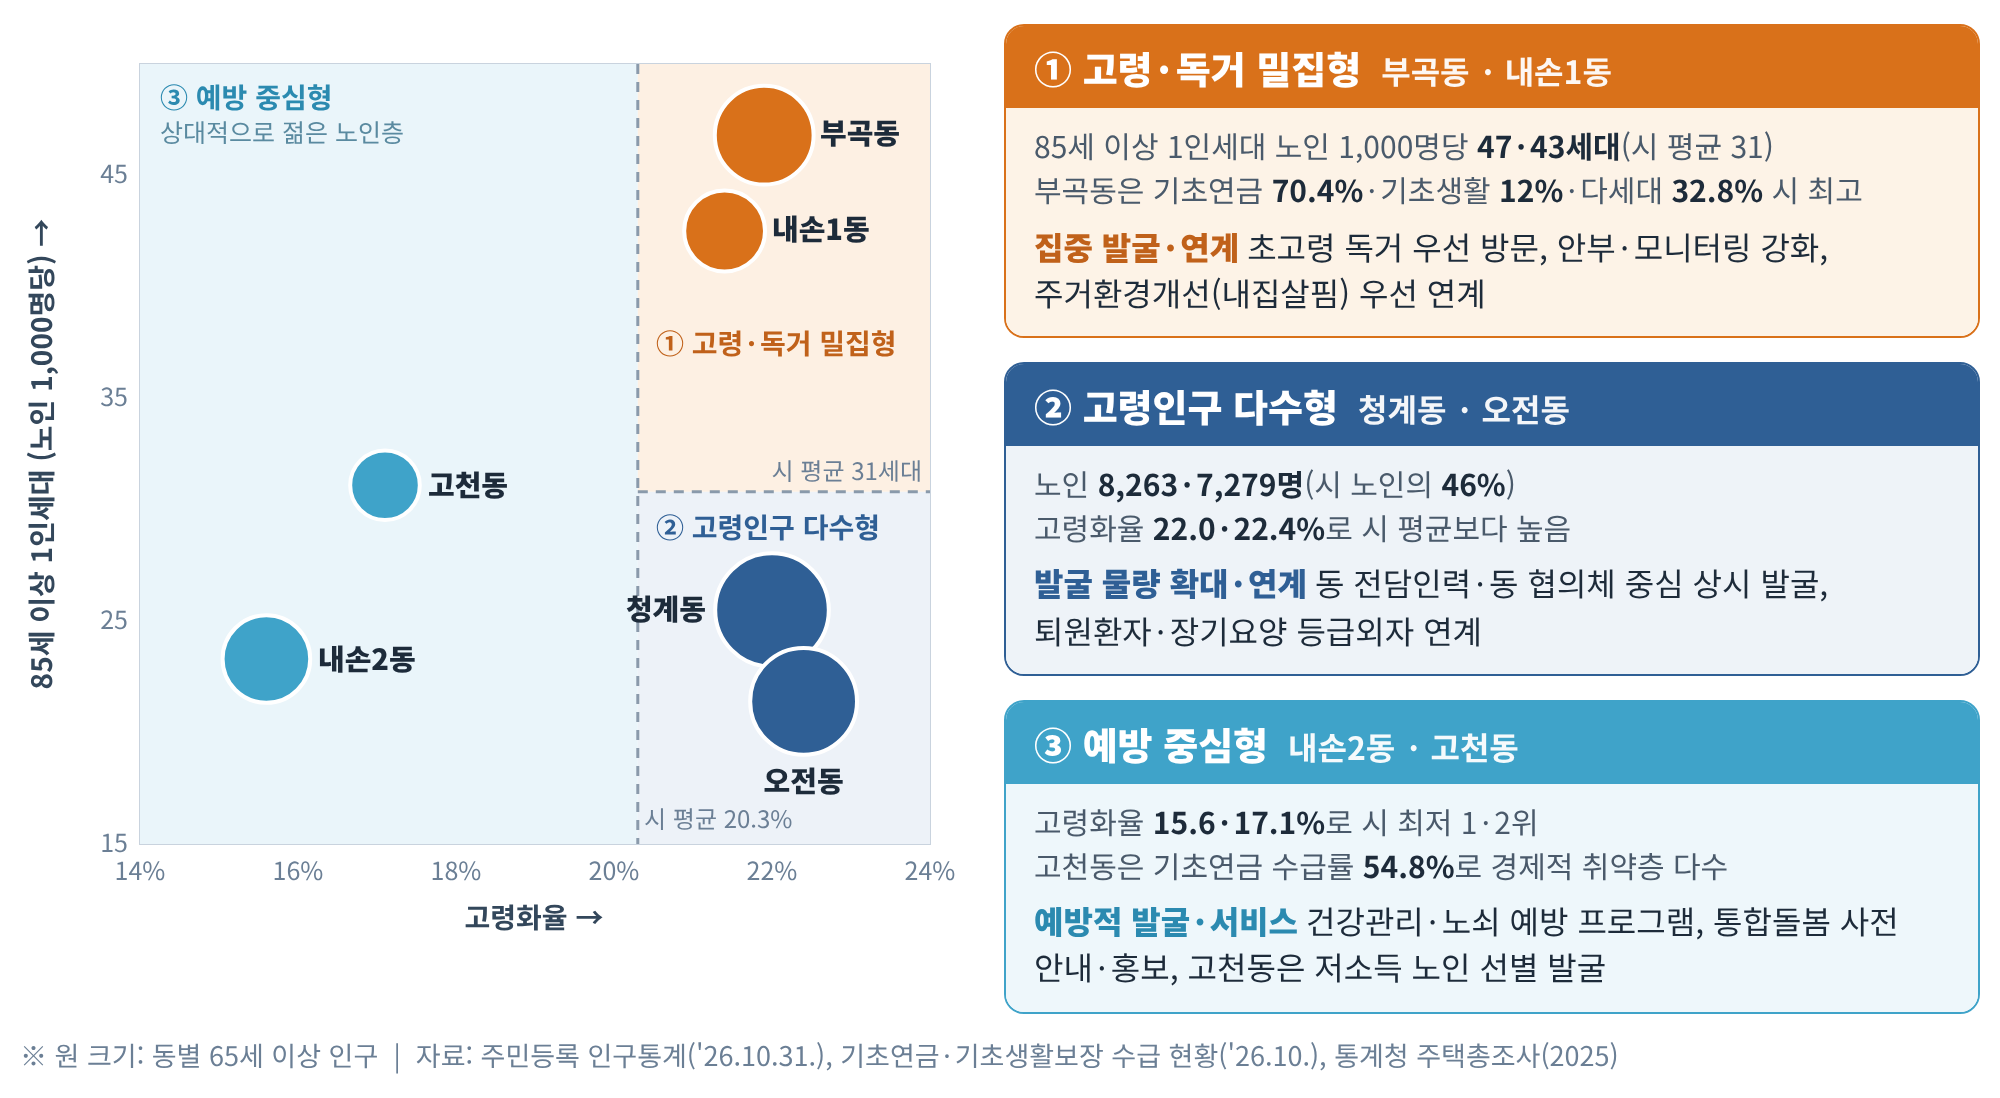
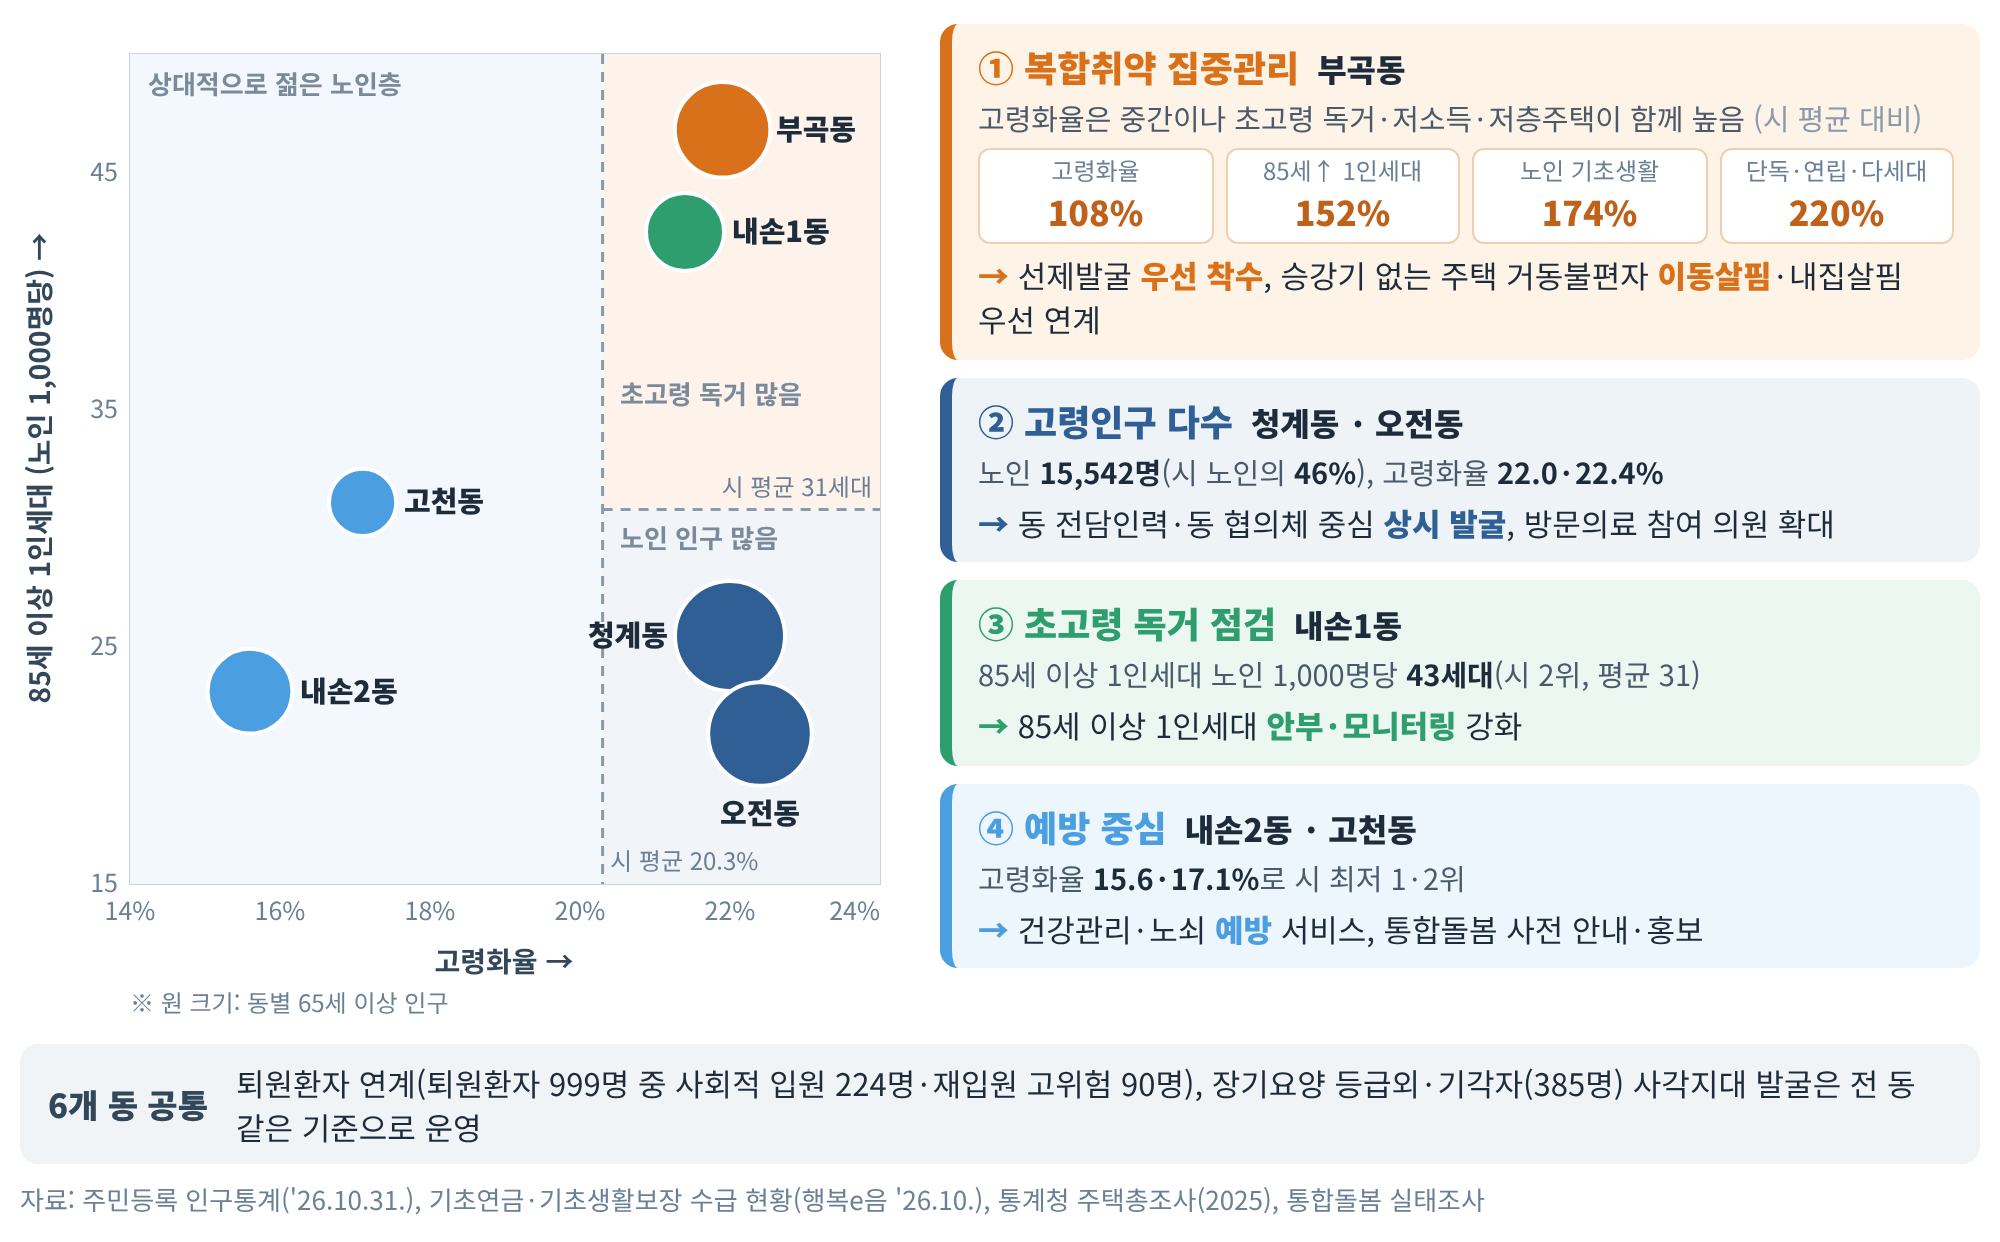
동별 유형 그림: 교수 자료 반영 4유형+공통, 부곡동 시 평균 대비 배율, 이동살핌 연계
Claude-Session: https://claude.ai/code/session_01Rws36rz6FMs9qvhqTvH8uK

diff --git a/docs/uiwang-2027-plan/figures/src/dong_type.html b/docs/uiwang-2027-plan/figures/src/dong_type.html
@@ -4,83 +4,92 @@
 <style>
 *{box-sizing:border-box;margin:0;padding:0}
 body{word-break:keep-all;font-family:'Noto Sans KR',sans-serif;color:#1d2b3a;background:#fff;padding:12px 10px;width:1000px}
-.wrap{display:grid;grid-template-columns:470px 1fr;gap:22px;align-items:start}
+.wrap{display:grid;grid-template-columns:440px 1fr;gap:20px;align-items:stretch}
 svg text{font-family:'Noto Sans KR',sans-serif}
-.cards{display:flex;flex-direction:column;gap:12px}
-.card{border-radius:10px;border:1.5px solid var(--c);overflow:hidden}
-.ch{background:var(--c);color:#fff;padding:7px 14px;display:flex;align-items:baseline;gap:10px}
-.ch b{font-size:19px;font-weight:900}
-.ch span{font-size:16px;font-weight:700;opacity:.95}
-.cb{padding:8px 14px 10px;background:var(--bg)}
-.ev{font-size:15px;color:#4a5a6b;line-height:1.45}
+.cards{display:flex;flex-direction:column;gap:9px}
+.card{border-radius:9px;border-left:6px solid var(--c);background:var(--bg);padding:8px 13px 9px}
+.ch{display:flex;align-items:baseline;gap:9px}
+.ch b{font-size:18px;font-weight:900;color:var(--c)}
+.ch span{font-size:16px;font-weight:900;color:#1d2b3a}
+.ev{font-size:14.5px;color:#4a5a6b;line-height:1.45;margin-top:2px}
 .ev em{font-style:normal;font-weight:700;color:#1d2b3a}
-.dir{margin-top:6px;font-size:16px;line-height:1.45}
-.dir b{color:var(--t);font-weight:900;margin-right:4px}
-.foot{margin-top:10px;font-size:13.5px;color:#6b7f95}
+.dir{margin-top:4px;font-size:15.5px;line-height:1.45}
+.dir:before{content:"→ ";color:var(--c);font-weight:900}
+.dir i{font-style:normal;font-weight:900;color:var(--c)}
+.ratio{display:flex;gap:6px;margin-top:5px}
+.ratio div{flex:1;background:#fff;border-radius:6px;text-align:center;padding:2px 0 3px;border:1px solid #f0cfae}
+.ratio small{display:block;font-size:12px;color:#6b7f95;line-height:1.3}
+.ratio b{font-size:17px;font-weight:900;color:#c0611a}
+.common{margin-top:10px;border-radius:9px;background:#f1f4f7;padding:8px 14px;display:flex;gap:14px;align-items:center;font-size:15.5px}
+.common b{font-size:16.5px;font-weight:900;color:#33475b;white-space:nowrap}
+.foot{margin-top:8px;font-size:13px;color:#6b7f95}
 </style></head><body>
 <div class="wrap">
-<svg viewBox="0 0 470 470" width="470" height="470">
-  <!-- plot area x:60-455 (고령화율 14~24%), y:20-410 (15~50세대) -->
-  <rect x="60" y="20" width="395" height="390" fill="#fff" stroke="#c9d3de"/>
-  <!-- 평균 기준: x=20.3 -> 60+(6.3/10)*395=308.9 ; y=30.8 -> 410-(15.8/35)*390=233.9 -->
-  <rect x="60" y="20" width="248.9" height="390" fill="#eaf5fa"/>
-  <rect x="308.9" y="20" width="146.1" height="213.9" fill="#fdf0e3"/>
-  <rect x="308.9" y="233.9" width="146.1" height="176.1" fill="#edf2f8"/>
-  <line x1="308.9" y1="20" x2="308.9" y2="410" stroke="#8a9aab" stroke-dasharray="5 4" stroke-width="1.5"/>
-  <line x1="308.9" y1="233.9" x2="455" y2="233.9" stroke="#8a9aab" stroke-dasharray="5 4" stroke-width="1.5"/>
-  <text x="312" y="402" font-size="12" fill="#6b7f95">시 평균 20.3%</text>
-  <text x="451" y="228" font-size="12" fill="#6b7f95" text-anchor="end">시 평균 31세대</text>
-  <!-- zone labels -->
-  <text x="70" y="42" font-size="14" font-weight="700" fill="#2b8ab0">③ 예방 중심형</text>
-  <text x="70" y="59" font-size="12.5" fill="#5a8aa0">상대적으로 젊은 노인층</text>
-  <text x="318" y="165" font-size="14" font-weight="700" fill="#c0611a">① 고령·독거 밀집형</text>
-  <text x="318" y="257" font-size="14" font-weight="700" fill="#2f5f95">② 고령인구 다수형</text>
-  <!-- axes ticks -->
+<svg viewBox="0 0 440 500" width="440" height="500">
+  <rect x="55" y="15" width="375" height="415" fill="#fff" stroke="#c9d3de"/>
+  <rect x="55" y="15" width="236.3" height="415" fill="#f2f8fd"/>
+  <rect x="291.3" y="15" width="138.7" height="227.7" fill="#fdf3ea"/>
+  <rect x="291.3" y="242.7" width="138.7" height="187.3" fill="#f1f4f8"/>
+  <line x1="291.3" y1="15" x2="291.3" y2="430" stroke="#8a9aab" stroke-dasharray="5 4" stroke-width="1.5"/>
+  <line x1="291.3" y1="242.7" x2="430" y2="242.7" stroke="#8a9aab" stroke-dasharray="5 4" stroke-width="1.5"/>
+  <text x="295" y="423" font-size="12" fill="#6b7f95">시 평균 20.3%</text>
+  <text x="426" y="236" font-size="12" fill="#6b7f95" text-anchor="end">시 평균 31세대</text>
+  <g font-size="13" font-weight="700" fill="#7a8a9b">
+    <text x="64" y="35">상대적으로 젊은 노인층</text>
+    <text x="300" y="190">초고령 독거 많음</text>
+    <text x="300" y="262">노인 인구 많음</text>
+  </g>
   <g font-size="12.5" fill="#6b7f95" text-anchor="middle">
-    <text x="60" y="428">14%</text><text x="139" y="428">16%</text><text x="218" y="428">18%</text><text x="297" y="428">20%</text><text x="376" y="428">22%</text><text x="455" y="428">24%</text>
+    <text x="55" y="448">14%</text><text x="130" y="448">16%</text><text x="205" y="448">18%</text><text x="280" y="448">20%</text><text x="355" y="448">22%</text><text x="430" y="448" text-anchor="end">24%</text>
   </g>
   <g font-size="12.5" fill="#6b7f95" text-anchor="end">
-    <text x="54" y="414">15</text><text x="54" y="302.6">25</text><text x="54" y="191.1">35</text><text x="54" y="79.7">45</text>
+    <text x="49" y="434">15</text><text x="49" y="315.4">25</text><text x="49" y="196.9">35</text><text x="49" y="78.3">45</text>
   </g>
-  <text x="257" y="452" font-size="14" font-weight="700" fill="#33475b" text-anchor="middle">고령화율 →</text>
-  <text x="16" y="215" font-size="14" font-weight="700" fill="#33475b" text-anchor="middle" transform="rotate(-90 16 215)">85세 이상 1인세대 (노인 1,000명당) →</text>
-  <!-- bubbles: r = sqrt(pop)/3.2 ; x=60+(v-14)*39.5 ; y=410-(v-15)*11.143 -->
-  <!-- 부곡 21.9, 46.8, 6239 -->
+  <text x="242" y="474" font-size="14" font-weight="700" fill="#33475b" text-anchor="middle">고령화율 →</text>
+  <text x="15" y="222" font-size="14" font-weight="700" fill="#33475b" text-anchor="middle" transform="rotate(-90 15 222)">85세 이상 1인세대 (노인 1,000명당) →</text>
   <g stroke="#fff" stroke-width="2">
-    <circle cx="372.1" cy="55.6" r="24.7" fill="#d9711a"/>
-    <circle cx="352.3" cy="103.5" r="20.2" fill="#d9711a"/>
-    <circle cx="376" cy="293" r="28.4" fill="#2f5f95"/>
-    <circle cx="391.8" cy="338.7" r="26.7" fill="#2f5f95"/>
-    <circle cx="123.2" cy="317.5" r="21.9" fill="#3fa3c9"/>
-    <circle cx="182.5" cy="230.6" r="17.4" fill="#3fa3c9"/>
+    <circle cx="351.3" cy="52.9" r="23.9" fill="#d9711a"/>
+    <circle cx="332.5" cy="104" r="19.5" fill="#2e9e6e"/>
+    <circle cx="355" cy="306" r="27.5" fill="#2f5f95"/>
+    <circle cx="370" cy="355" r="25.9" fill="#2f5f95"/>
+    <circle cx="115" cy="333.6" r="21.2" fill="#4b9fe0"/>
+    <circle cx="171.3" cy="239.2" r="16.8" fill="#4b9fe0"/>
   </g>
   <g font-size="14.5" font-weight="900" fill="#1d2b3a">
-    <text x="400" y="60">부곡동</text>
-    <text x="376" y="108">내손1동</text>
-    <text x="343" y="298" text-anchor="end">청계동</text>
-    <text x="391.8" y="384" text-anchor="middle">오전동</text>
-    <text x="149" y="323">내손2동</text>
-    <text x="204" y="236">고천동</text>
+    <text x="378" y="58">부곡동</text>
+    <text x="356" y="109">내손1동</text>
+    <text x="324" y="311" text-anchor="end">청계동</text>
+    <text x="370" y="400" text-anchor="middle">오전동</text>
+    <text x="140" y="339">내손2동</text>
+    <text x="192" y="244">고천동</text>
   </g>
+  <text x="55" y="494" font-size="12" fill="#6b7f95">※ 원 크기: 동별 65세 이상 인구</text>
 </svg>
 
 <div class="cards">
-  <div class="card" style="--c:#d9711a;--bg:#fdf3e7;--t:#c0611a">
-    <div class="ch"><b>① 고령·독거 밀집형</b><span>부곡동 · 내손1동</span></div>
-    <div class="cb"><div class="ev">85세 이상 1인세대 노인 1,000명당 <em>47·43세대</em>(시 평균 31)<br>부곡동은 기초연금 <em>70.4%</em>·기초생활 <em>12%</em>·다세대 <em>32.8%</em> 시 최고</div>
-      <div class="dir"><b>집중 발굴·연계</b>초고령 독거 우선 방문, 안부·모니터링 강화, 주거환경개선(내집살핌) 우선 연계</div></div>
+  <div class="card" style="--c:#d9711a;--bg:#fdf3e7">
+    <div class="ch"><b>① 복합취약 집중관리</b><span>부곡동</span></div>
+    <div class="ev">고령화율은 중간이나 초고령 독거·저소득·저층주택이 함께 높음 <span style="color:#8a9aab">(시 평균 대비)</span></div>
+    <div class="ratio"><div><small>고령화율</small><b>108%</b></div><div><small>85세↑ 1인세대</small><b>152%</b></div><div><small>노인 기초생활</small><b>174%</b></div><div><small>단독·연립·다세대</small><b>220%</b></div></div>
+    <div class="dir">선제발굴 <i>우선 착수</i>, 승강기 없는 주택 거동불편자 <i>이동살핌</i>·내집살핌 우선 연계</div>
   </div>
-  <div class="card" style="--c:#2f5f95;--bg:#eef3f8;--t:#2f5f95">
-    <div class="ch"><b>② 고령인구 다수형</b><span>청계동 · 오전동</span></div>
-    <div class="cb"><div class="ev">노인 <em>8,263·7,279명</em>(시 노인의 <em>46%</em>)<br>고령화율 <em>22.0·22.4%</em>로 시 평균보다 높음</div>
-      <div class="dir"><b>발굴 물량 확대·연계</b>동 전담인력·동 협의체 중심 상시 발굴, 퇴원환자·장기요양 등급외자 연계</div></div>
+  <div class="card" style="--c:#2f5f95;--bg:#eef3f8">
+    <div class="ch"><b>② 고령인구 다수</b><span>청계동 · 오전동</span></div>
+    <div class="ev">노인 <em>15,542명</em>(시 노인의 <em>46%</em>), 고령화율 <em>22.0·22.4%</em></div>
+    <div class="dir">동 전담인력·동 협의체 중심 <i>상시 발굴</i>, 방문의료 참여 의원 확대</div>
   </div>
-  <div class="card" style="--c:#3fa3c9;--bg:#eef7fb;--t:#2b8ab0">
-    <div class="ch"><b>③ 예방 중심형</b><span>내손2동 · 고천동</span></div>
-    <div class="cb"><div class="ev">고령화율 <em>15.6·17.1%</em>로 시 최저 1·2위<br>고천동은 기초연금 수급률 <em>54.8%</em>로 경제적 취약층 다수</div>
-      <div class="dir"><b>예방적 발굴·서비스</b>건강관리·노쇠 예방 프로그램, 통합돌봄 사전 안내·홍보, 고천동은 저소득 노인 선별 발굴</div></div>
+  <div class="card" style="--c:#2e9e6e;--bg:#edf7f2">
+    <div class="ch"><b>③ 초고령 독거 점검</b><span>내손1동</span></div>
+    <div class="ev">85세 이상 1인세대 노인 1,000명당 <em>43세대</em>(시 2위, 평균 31)</div>
+    <div class="dir">85세 이상 1인세대 <i>안부·모니터링</i> 강화</div>
+  </div>
+  <div class="card" style="--c:#4b9fe0;--bg:#eef6fd">
+    <div class="ch"><b>④ 예방 중심</b><span>내손2동 · 고천동</span></div>
+    <div class="ev">고령화율 <em>15.6·17.1%</em>로 시 최저 1·2위</div>
+    <div class="dir">건강관리·노쇠 <i>예방</i> 서비스, 통합돌봄 사전 안내·홍보</div>
   </div>
 </div>
 </div>
-<div class="foot">※ 원 크기: 동별 65세 이상 인구 &nbsp;|&nbsp; 자료: 주민등록 인구통계('26.10.31.), 기초연금·기초생활보장 수급 현황('26.10.), 통계청 주택총조사(2025)</div>
+<div class="common"><b>6개 동 공통</b><span>퇴원환자 연계(퇴원환자 999명 중 사회적 입원 224명·재입원 고위험 90명), 장기요양 등급외·기각자(385명) 사각지대 발굴은 전 동 같은 기준으로 운영</span></div>
+<div class="foot">자료: 주민등록 인구통계('26.10.31.), 기초연금·기초생활보장 수급 현황(행복e음 '26.10.), 통계청 주택총조사(2025), 통합돌봄 실태조사</div>
 </body></html>
